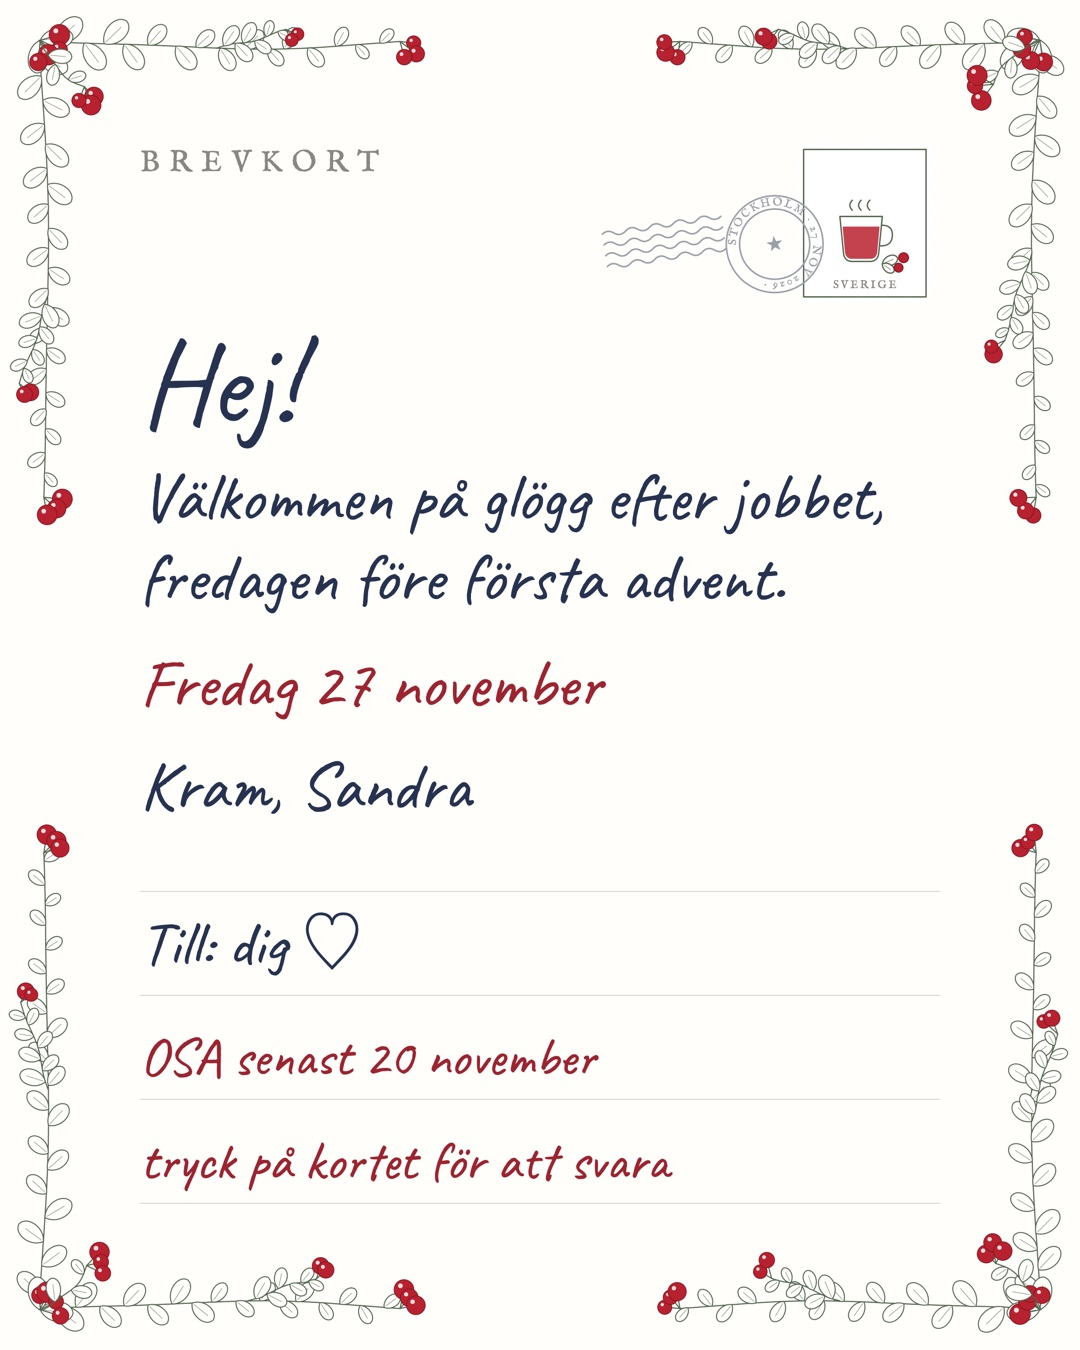
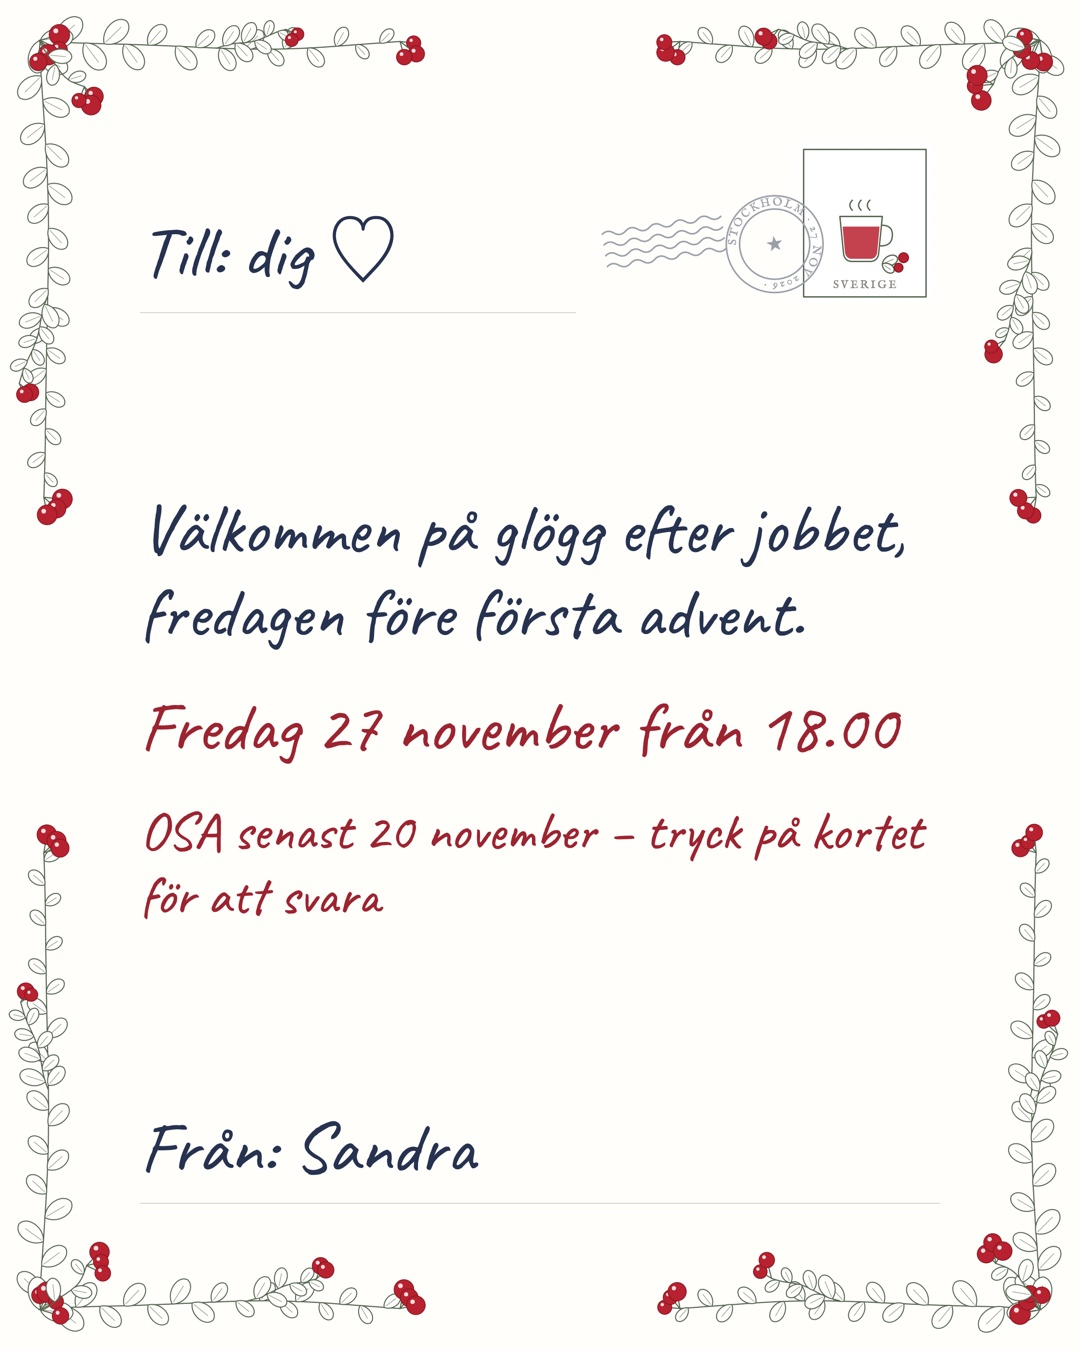
Each guest's own card: Till: <name> as the WhatsApp preview
Card now reads Till / text / Från: Sandra (no Brevkort). tools/build_cards.py makes
site/t/<name>-<code>/ with the guest's card; the sheet links there.

diff --git a/card.html b/card.html
@@ -4,7 +4,7 @@
 <meta charset="utf-8">
 <title>Glöggkort</title>
 <!-- The card shown as the WhatsApp preview: a postcard back stood on end (1080×1350), so it fills a
-     phone screen's width. tools/render makes card-sv.png and card-en.png from it. -->
+     phone screen's width. tools/build_cards.py renders one per guest (?to=Name), plus card-sv/en.jpg for links without one. -->
 <link rel="preconnect" href="https://fonts.googleapis.com">
 <link href="https://fonts.googleapis.com/css2?family=Caveat:wght@400;500&family=IM+Fell+English+SC&display=block" rel="stylesheet">
 <link rel="stylesheet" href="style.css">
@@ -12,18 +12,15 @@
   html, body { margin: 0; width: 1080px; height: 1350px; overflow: hidden; background: var(--paper); }
   .card { position: relative; width: 1080px; height: 1350px; box-sizing: border-box; display: flex; flex-direction: column; }
   .card .lingon { position: absolute; inset: 0; }
-  .top { display: flex; justify-content: space-between; align-items: flex-start; }
-  .label { font-size: 30px; padding-top: 10px; }
-  .post { display: flex; align-items: flex-start; }
+  .top { display: flex; justify-content: space-between; align-items: flex-end; gap: 30px; }
+  .post { display: flex; align-items: flex-start; flex: none; }
   .post .postmark { width: 230px; height: 121px; margin: 58px -46px 0 0; transform: rotate(-9deg); position: relative; z-index: 1; }
   .post .stamp { width: 150px; height: 178px; }
-  .msg { font-size: 68px; line-height: 1.18; margin-top: 10px; }
-  .msg .hi { font-size: 120px; line-height: 1; margin-bottom: 14px; }
-  .msg .when { margin-top: 26px; color: var(--berry-ink); }
-  .msg .sign { margin-top: 22px; }
-  .divider { border-top: 1px solid var(--rule); margin: auto 0 0; height: 0; }
-  .addr .line { height: 104px; display: flex; align-items: flex-end; padding-bottom: 8px; box-sizing: border-box; font-size: 62px; }
-  .addr .line.small { font-size: 54px; color: var(--berry-ink); }
+  .line { font-size: 72px; padding-bottom: 10px; border-bottom: 1px solid var(--rule); }
+  .top .line { flex: 1; }
+  .msg { font-size: 70px; line-height: 1.2; margin: auto 0; }
+  .msg .when { margin-top: 30px; color: var(--berry-ink); }
+  .msg .osa { margin-top: 30px; font-size: 54px; color: var(--berry-ink); }
 </style>
 </head>
 <body>
@@ -31,23 +28,25 @@
 <script src="lingon.js"></script>
 <script>
   const T = {
-    sv: { label: 'Brevkort', hi: 'Hej!', msg: 'Välkommen på glögg efter jobbet, fredagen före första advent.',
-          when: 'Fredag 27 november', sign: 'Kram, Sandra', to: 'Till: dig ♡', osa: 'OSA senast 20 november', tap: 'tryck på kortet för att svara' },
-    en: { label: 'Postcard', hi: 'Hi!', msg: 'Come for glögg after work, the Friday before the first of Advent.',
-          when: 'Friday 27 November', sign: 'Love, Sandra', to: 'To: you ♡', osa: 'RSVP by 20 November', tap: 'tap the card to reply' },
+    sv: { to: 'Till: dig ♡', msg: 'Välkommen på glögg efter jobbet, fredagen före första advent.',
+          when: 'Fredag 27 november från 18.00', osa: 'OSA senast 20 november – tryck på kortet för att svara', from: 'Från: Sandra' },
+    en: { to: 'To: you ♡', msg: 'Come for glögg after work, the Friday before the first of Advent.',
+          when: 'Friday 27 November from 6 pm', osa: 'RSVP by 20 November – tap the card to reply', from: 'From: Sandra' },
   };
   const W = 1080, H = 1350;
   const lang = new URLSearchParams(location.search).get('lang') === 'en' ? 'en' : 'sv';
   const t = T[lang];
+  // ?to=Magnus addresses the card to one guest (tools/build_cards.py); without it, to "dig".
+  const to = new URLSearchParams(location.search).get('to');
+  if (to) t.to = `${lang === 'en' ? 'To' : 'Till'}: ${to.replace(/[&<>"]/g, '')}`;
   document.documentElement.lang = lang;
   const card = document.getElementById('card');
   const frame = Lingon.frame(W, H, { margin: 40, scale: 2, reach: 0.36 });
   card.innerHTML = frame +
-    `<div class="top"><div class="label printed">${t.label}</div>
+    `<div class="top"><div class="line hand">${t.to}</div>
        <div class="post">${Lingon.postmark('STOCKHOLM · 27 NOV 2026 · ', '★')}${Lingon.stamp(112, 132, 'SVERIGE')}</div></div>
-     <div class="msg hand"><div class="hi">${t.hi}</div><div>${t.msg}</div><div class="when">${t.when}</div><div class="sign">${t.sign}</div></div>
-     <div class="divider"></div>
-     <div class="addr hand"><div class="line rule">${t.to}</div><div class="line rule small">${t.osa}</div><div class="line rule small">${t.tap}</div></div>`;
+     <div class="msg hand"><div>${t.msg}</div><div class="when">${t.when}</div><div class="osa">${t.osa}</div></div>
+     <div class="line hand">${t.from}</div>`;
   // Keep everything inside the frame's reach, with some air.
   const depth = Number(card.querySelector('.lingon').dataset.depth);
   card.style.padding = `${depth + 24}px ${depth + 30}px ${depth + 36}px`;

diff --git a/app.js b/app.js
@@ -1,4 +1,6 @@
-// The personal reply page. The link is …/glogg/?g=<name>-<code> (Swedish) or …/glogg/en/?g=… (English).
+// The personal reply page. Each guest has their own copy at …/glogg/t/<name>-<code>/ (made by
+// tools/build_cards.py, with their own card as the link preview); …/glogg/?g=<name>-<code> and
+// …/glogg/en/?g=… also work.
 // Names and answers live in the Google Sheet; API is its Apps Script web app. Without API the page
 // keeps answers in this browser only (for trying the page out locally).
 const API = 'https://script.google.com/macros/s/AKfycbzq9BSsHxZs75XvONxqytS1da_rezUmx9V-U6BnQAuQjEaupzPpaZvo91zQ26lNmsfk/exec';
@@ -35,9 +37,9 @@ const T = {
   },
 };
 
-const lang = document.documentElement.lang === 'en' ? 'en' : 'sv';
-const t = T[lang];
-const slug = new URLSearchParams(location.search).get('g') || '';
+let lang = document.documentElement.lang === 'en' ? 'en' : 'sv';
+let t = T[lang];
+const slug = new URLSearchParams(location.search).get('g') || (location.pathname.match(/\/t\/([^/]+)\/?$/) || [])[1] || '';
 const code = slug.split('-').pop().toLowerCase();
 // First paint uses the name in the link; the sheet's spelling (å, ä, ö) replaces it when it arrives.
 const guess = slug.includes('-') ? slug.slice(0, slug.lastIndexOf('-')).split('-').map(w => w[0].toUpperCase() + w.slice(1)).join('-') : '';
@@ -72,11 +74,16 @@ function render() {
         <p class="hint">${t.change}</p>` : ''}
       ` : `<p class="said hand">${t.unknown}</p>`}
     </section>
-    <footer><a class="link printed-link" href="${lang === 'en' ? '../' : 'en/'}${location.search}">▸ ${t.other}</a></footer>`;
+    <footer><a class="link printed-link" id="other" href="#">▸ ${t.other}</a></footer>`;
   drawFrame();
   app.querySelectorAll('.tick').forEach(b => b.onclick = () => answer(b.dataset.a));
   const note = document.getElementById('note');
   if (note) note.onsubmit = (e) => { e.preventDefault(); sendNote(note.querySelector('textarea').value); };
+  document.getElementById('other').onclick = (e) => {
+    e.preventDefault();
+    lang = lang === 'en' ? 'sv' : 'en'; t = T[lang]; document.documentElement.lang = lang;
+    render();
+  };
   const cal = document.getElementById('cal');
   if (cal) cal.onclick = (e) => { e.preventDefault(); calendar(); };
 }

diff --git a/t/sandra-stmfy/index.html b/t/sandra-stmfy/index.html
@@ -1,0 +1,27 @@
+<!doctype html>
+<html lang="sv">
+<head>
+<meta charset="utf-8">
+<meta name="viewport" content="width=device-width, initial-scale=1, viewport-fit=cover">
+<title>Glögg efter jobbet 🍷</title>
+<meta name="robots" content="noindex">
+<meta property="og:type" content="website">
+<meta property="og:title" content="Glögg efter jobbet 🍷">
+<meta property="og:description" content="Fredag 27 november – tryck här för att svara">
+<meta property="og:image" content="https://sandragrennard-hash.github.io/glogg/t/sandra-stmfy/card.jpg?v=1793713645">
+<meta property="og:image:width" content="1080">
+<meta property="og:image:height" content="1350">
+<meta name="twitter:card" content="summary_large_image">
+<meta name="theme-color" content="#fffefb">
+<link rel="icon" href="/glogg/icon.svg">
+<link rel="preconnect" href="https://fonts.googleapis.com">
+<link href="https://fonts.googleapis.com/css2?family=Caveat:wght@400;500&family=IM+Fell+English+SC&display=swap" rel="stylesheet">
+<link rel="stylesheet" href="/glogg/style.css">
+<link rel="stylesheet" href="/glogg/page.css?v=3">
+</head>
+<body>
+<main id="sheet"><div id="app"></div></main>
+<script src="/glogg/lingon.js?v=3"></script>
+<script src="/glogg/app.js?v=3"></script>
+</body>
+</html>
